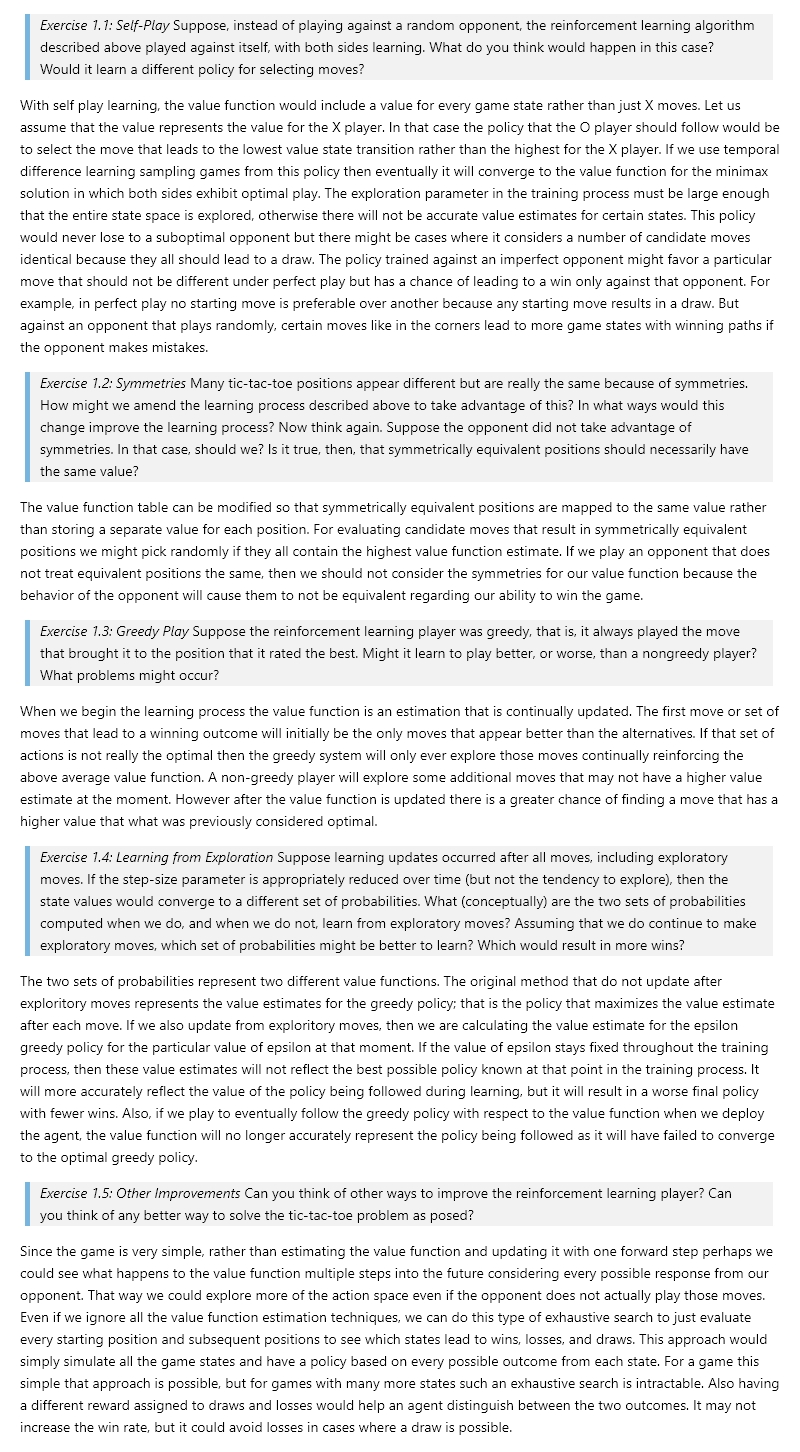
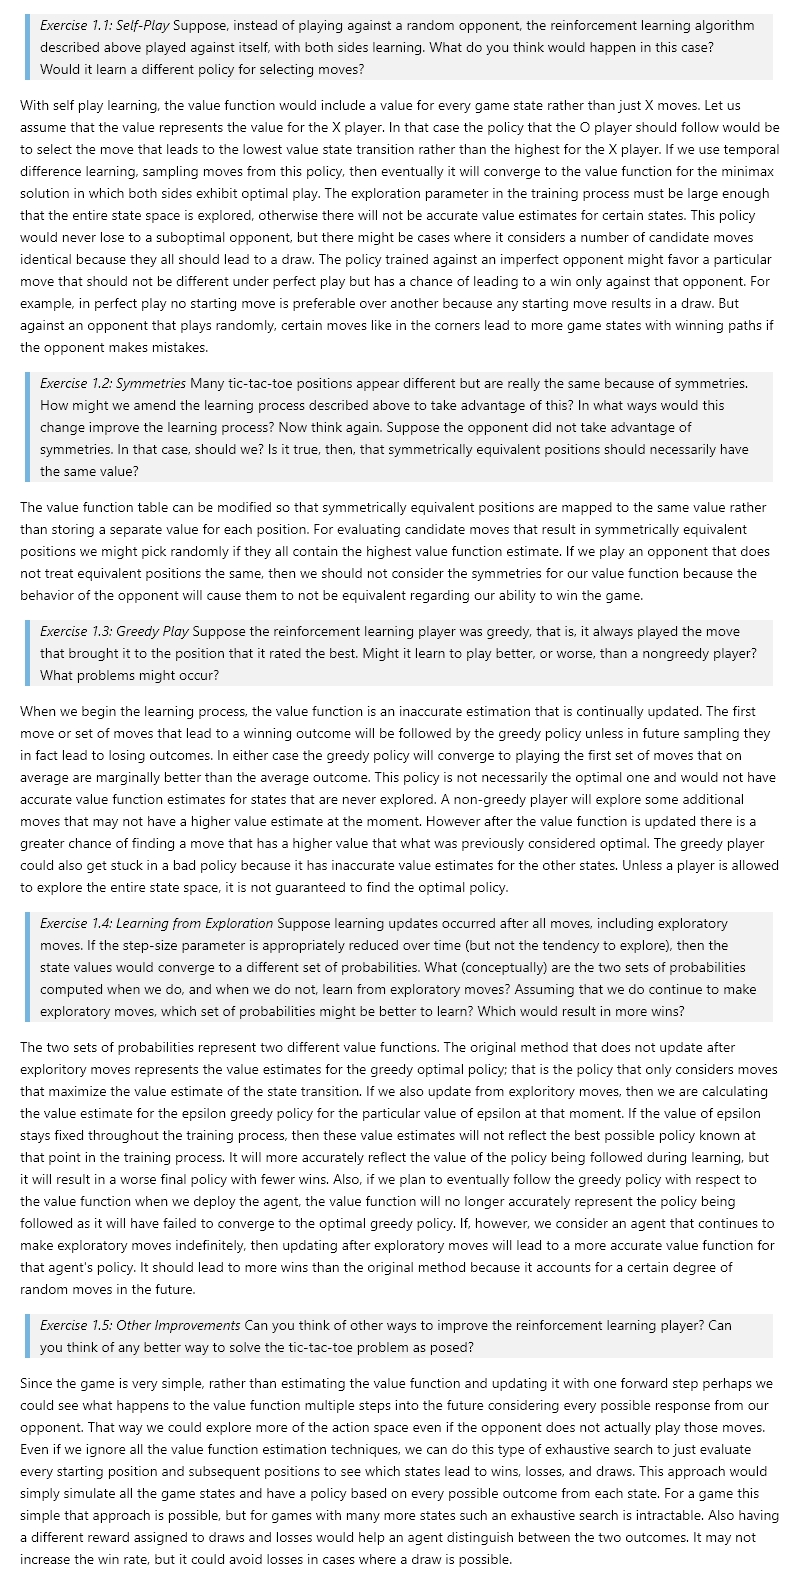
Update chapter 1 exercise exports

Changed region(s): [[0.0312, 0.0, 0.9688, 0.9917]]

diff --git a/Chapter-1/Chapter_1.html b/Chapter-1/Chapter_1.html
@@ -371,7 +371,7 @@ reinforcement learning algorithm described above played against itself, with bot
 learning. What do you think would happen in this case? Would it learn a different policy
 for selecting moves?</p>
 </blockquote>
-<p>With self play learning, the value function would include a value for every game state rather than just X moves.  Let us assume that the value represents the value for the X player.  In that case the policy that the O player should follow would be to select the move that leads to the lowest value state transition rather than the highest for the X player.  If we use temporal difference learning sampling games from this policy then eventually it will converge to the value function for the minimax solution in which both sides exhibit optimal play.  The exploration parameter in the training process must be large enough that the entire state space is explored, otherwise there will not be accurate value estimates for certain states.  This policy would never lose to a suboptimal opponent but there might be cases where it considers a number of candidate moves identical because they all should lead to a draw.  The policy trained against an imperfect opponent might favor a particular move that should not be different under perfect play but has a chance of leading to a win only against that opponent.  For example, in perfect play no starting move is preferable over another because any starting move results in a draw.  But against an opponent that plays randomly, certain moves like in the corners lead to more game states with winning paths if the opponent makes mistakes.</p>
+<p>With self play learning, the value function would include a value for every game state rather than just X moves.  Let us assume that the value represents the value for the X player.  In that case the policy that the O player should follow would be to select the move that leads to the lowest value state transition rather than the highest for the X player.  If we use temporal difference learning, sampling moves from this policy, then eventually it will converge to the value function for the minimax solution in which both sides exhibit optimal play.  The exploration parameter in the training process must be large enough that the entire state space is explored, otherwise there will not be accurate value estimates for certain states.  This policy would never lose to a suboptimal opponent, but there might be cases where it considers a number of candidate moves identical because they all should lead to a draw.  The policy trained against an imperfect opponent might favor a particular move that should not be different under perfect play but has a chance of leading to a win only against that opponent.  For example, in perfect play no starting move is preferable over another because any starting move results in a draw.  But against an opponent that plays randomly, certain moves like in the corners lead to more game states with winning paths if the opponent makes mistakes.</p>
 <blockquote>
 <p><em>Exercise 1.2: Symmetries</em> Many tic-tac-toe positions appear different but are really the same because of symmetries. How might we amend the learning process described above to take advantage of this? In what ways would this change improve the learning process? Now think again. Suppose the opponent did not take advantage of symmetries.  In that case, should we? Is it true, then, that symmetrically equivalent positions should necessarily have the same value?</p>
 </blockquote>
@@ -379,11 +379,11 @@ for selecting moves?</p>
 <blockquote>
 <p><em>Exercise 1.3: Greedy Play</em> Suppose the reinforcement learning player was greedy, that is, it always played the move that brought it to the position that it rated the best. Might it learn to play better, or worse, than a nongreedy player? What problems might occur?</p>
 </blockquote>
-<p>When we begin the learning process the value function is an estimation that is continually updated.  The first move or set of moves that lead to a winning outcome will initially be the only moves that appear better than the alternatives.  If that set of actions is not really the optimal then the greedy system will only ever explore those moves continually reinforcing the above average value function.  A non-greedy player will explore some additional moves that may not have a higher value estimate at the moment.  However after the value function is updated there is a greater chance of finding a move that has a higher value that what was previously considered optimal.</p>
+<p>When we begin the learning process, the value function is an inaccurate estimation that is continually updated.  The first move or set of moves that lead to a winning outcome will be followed by the greedy policy unless in future sampling they in fact lead to losing outcomes.  In either case the greedy policy will converge to playing the first set of moves that on average are marginally better than the average outcome.  This policy is not necessarily the optimal one and would not have accurate value function estimates for states that are never explored.  A non-greedy player will explore some additional moves that may not have a higher value estimate at the moment.  However after the value function is updated there is a greater chance of finding a move that has a higher value that what was previously considered optimal.  The greedy player could also get stuck in a bad policy because it has inaccurate value estimates for the other states.  Unless a player is allowed to explore the entire state space, it is not guaranteed to find the optimal policy.</p>
 <blockquote>
 <p><em>Exercise 1.4: Learning from Exploration</em> Suppose learning updates occurred after all moves, including exploratory moves. If the step-size parameter is appropriately reduced over time (but not the tendency to explore), then the state values would converge to a different set of probabilities. What (conceptually) are the two sets of probabilities computed when we do, and when we do not, learn from exploratory moves? Assuming that we do continue to make exploratory moves, which set of probabilities might be better to learn? Which would result in more wins?</p>
 </blockquote>
-<p>The two sets of probabilities represent two different value functions.  The original method that do not update after exploritory moves represents the value estimates for the greedy policy; that is the policy that maximizes the value estimate after each move.  If we also update from exploritory moves, then we are calculating the value estimate for the epsilon greedy policy for the particular value of epsilon at that moment.  If the value of epsilon stays fixed throughout the training process, then these value estimates will not reflect the best possible policy known at that point in the training process.  It will more accurately reflect the value of the policy being followed during learning, but it will result in a worse final policy with fewer wins.  Also, if we play to eventually follow the greedy policy with respect to the value function when we deploy the agent, the value function will no longer accurately represent the policy being followed as it will have failed to converge to the optimal greedy policy.</p>
+<p>The two sets of probabilities represent two different value functions.  The original method that does not update after exploritory moves represents the value estimates for the greedy optimal policy; that is the policy that only considers moves that maximize the value estimate of the state transition.  If we also update from exploritory moves, then we are calculating the value estimate for the epsilon greedy policy for the particular value of epsilon at that moment.  If the value of epsilon stays fixed throughout the training process, then these value estimates will not reflect the best possible policy known at that point in the training process.  It will more accurately reflect the value of the policy being followed during learning, but it will result in a worse final policy with fewer wins.  Also, if we plan to eventually follow the greedy policy with respect to the value function when we deploy the agent, the value function will no longer accurately represent the policy being followed as it will have failed to converge to the optimal greedy policy.  If, however, we consider an agent that continues to make exploratory moves indefinitely, then updating after exploratory moves will lead to a more accurate value function for that agent's policy.  It should lead to more wins than the original method because it accounts for a certain degree of random moves in the future.</p>
 <blockquote>
 <p><em>Exercise 1.5: Other Improvements</em> Can you think of other ways to improve the reinforcement learning player? Can you think of any better way to solve the tic-tac-toe problem as posed?</p>
 </blockquote>
